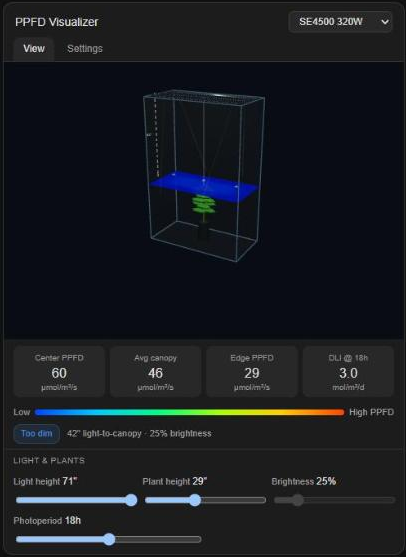
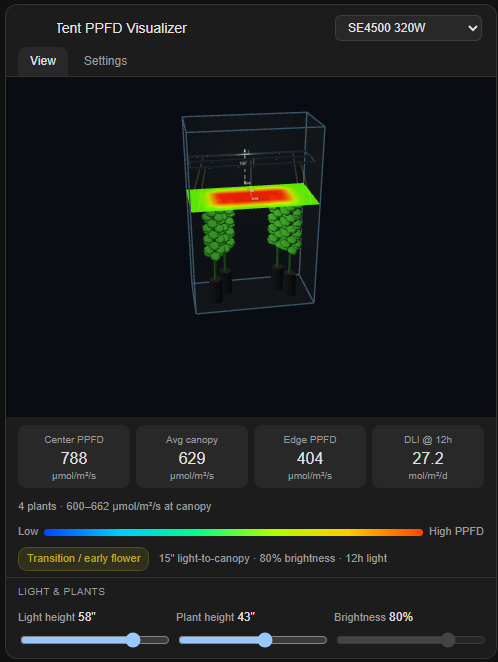
ReadMe and Images Updates
Updated old images, added new images for AI card.

diff --git a/README.md b/README.md
@@ -210,6 +210,19 @@ learning**. Learning is opt-in (Settings → *Adaptive climate (AI)*) and **obse
 it never switches anything; it watches your sensors and each device's on/off to learn how
 the room responds. Add the card and pick the panel in its **visual editor** (no YAML).
 
+<table align="center">
+  <tr>
+    <td align="center" width="33%"><img src="https://raw.githubusercontent.com/cobragt2000/spider_farmer_bridge/main/docs/images/Spider_AI_01.png" width="250" alt="AI Climate Stats — learning confidence, stats & intake-vs-tent" /></td>
+    <td align="center" width="33%"><img src="https://raw.githubusercontent.com/cobragt2000/spider_farmer_bridge/main/docs/images/Spider_AI_02.png" width="250" alt="AI Climate Stats — per-metric response models & switch-on response" /></td>
+    <td align="center" width="33%"><img src="https://raw.githubusercontent.com/cobragt2000/spider_farmer_bridge/main/docs/images/Spider_AI_03.png" width="250" alt="AI Climate Stats — cross-coupling grid" /></td>
+  </tr>
+  <tr>
+    <td align="center" width="33%"><img src="https://raw.githubusercontent.com/cobragt2000/spider_farmer_bridge/main/docs/images/Spider_AI_04.png" width="250" alt="AI Climate Stats — Day regime (lights-on learning)" /></td>
+    <td align="center" width="33%"><img src="https://raw.githubusercontent.com/cobragt2000/spider_farmer_bridge/main/docs/images/Spider_AI_05.png" width="250" alt="AI Climate Stats — Night regime (lights-off learning)" /></td>
+    <td align="center" width="33%"><img src="https://raw.githubusercontent.com/cobragt2000/spider_farmer_bridge/main/docs/images/Spider_AI_06.png" width="250" alt="AI Climate Stats — Settings: durable store, capture rate, learning speed" /></td>
+  </tr>
+</table>
+
 What it shows:
 
 - **Learning confidence** (0–100 %) — how much the model has to go on (data volume × fit
@@ -222,6 +235,17 @@ What it shows:
   failing model's confidence is halved until it can predict.
 - **Switch-on response** per device — how far the reading moves after a device turns on,
   how long before it starts, and when it reaches 63 % of the change.
+
+  > **Why 63%?** It’s the standard engineering marker for response speed. Systems like this
+  > approach their final value on an exponential curve, and the 63% point (technically
+  > 1 − 1/e ≈ 63.2%) is the one clean, repeatable spot to measure “how quick” — reach it fast
+  > and the device is snappy, reach it slowly and it’s sluggish. Together these three numbers
+  > (strength, delay, speed) are a standard way to describe any piece of climate gear, and
+  > they’re the groundwork for the future control layer knowing how hard and how early to
+  > nudge each device.
+  >
+  > So in plain terms: *“when this device turns on, it moves the reading by X, it takes Y
+  > minutes to start, and it’s most of the way there by Z minutes.”*
 - **Cross-coupling grid** and an **intake-air vs. tent** comparison (the learned
   ventilation term from the blower).
 - **Learning profiles** — save and reload named datasets, kept in a durable per-panel
